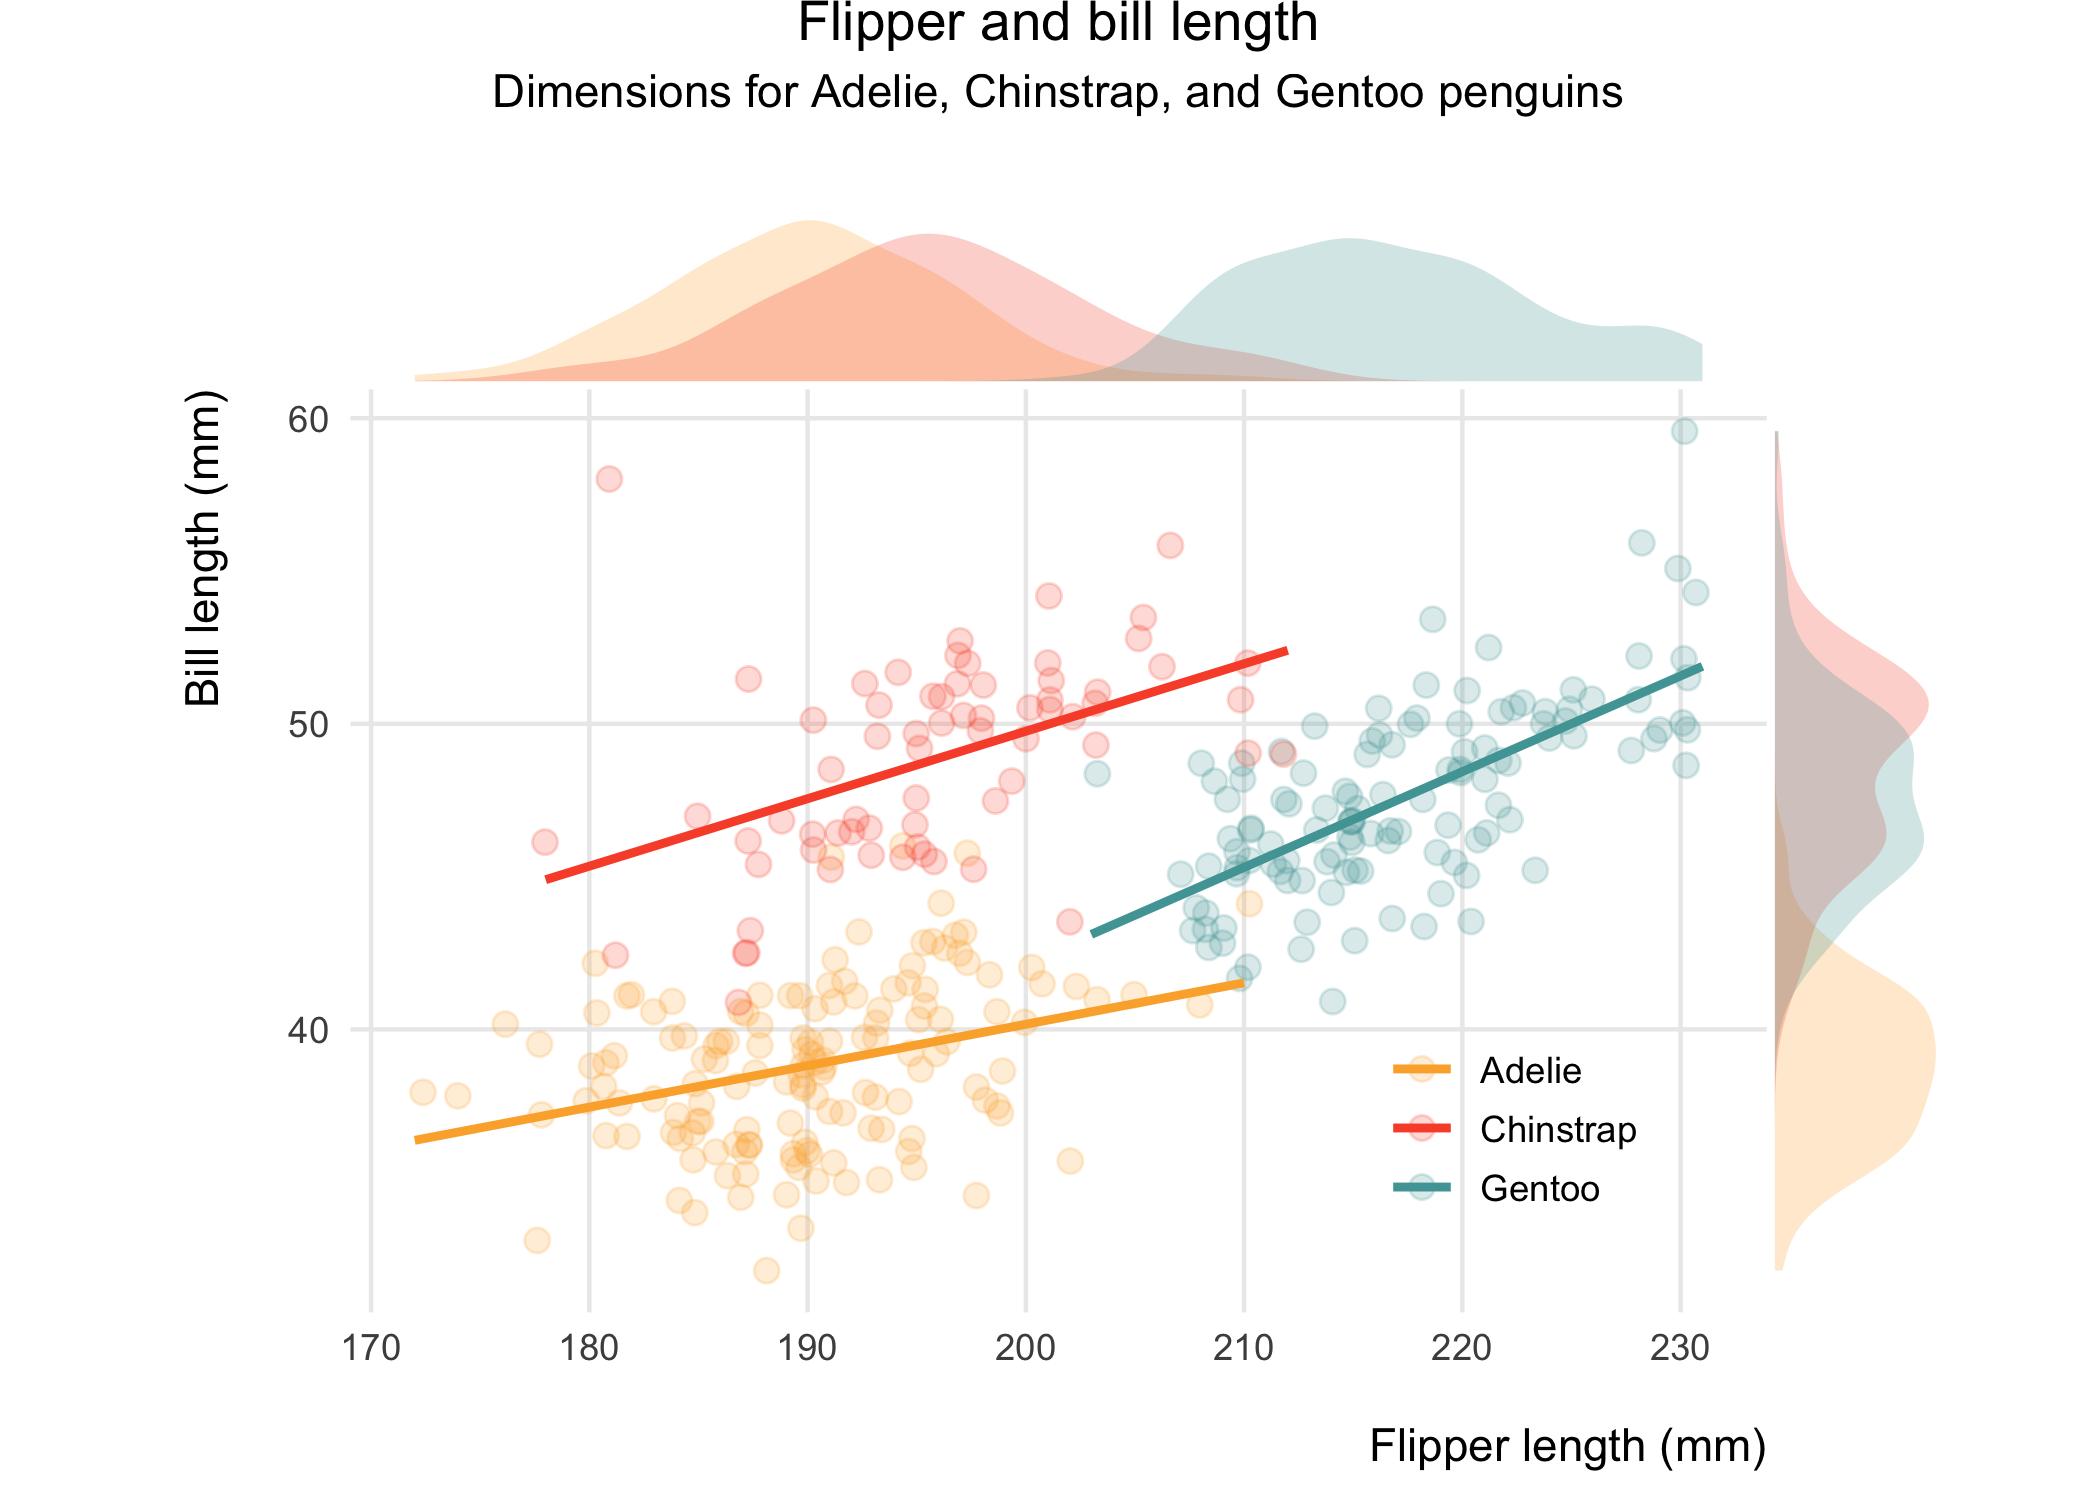
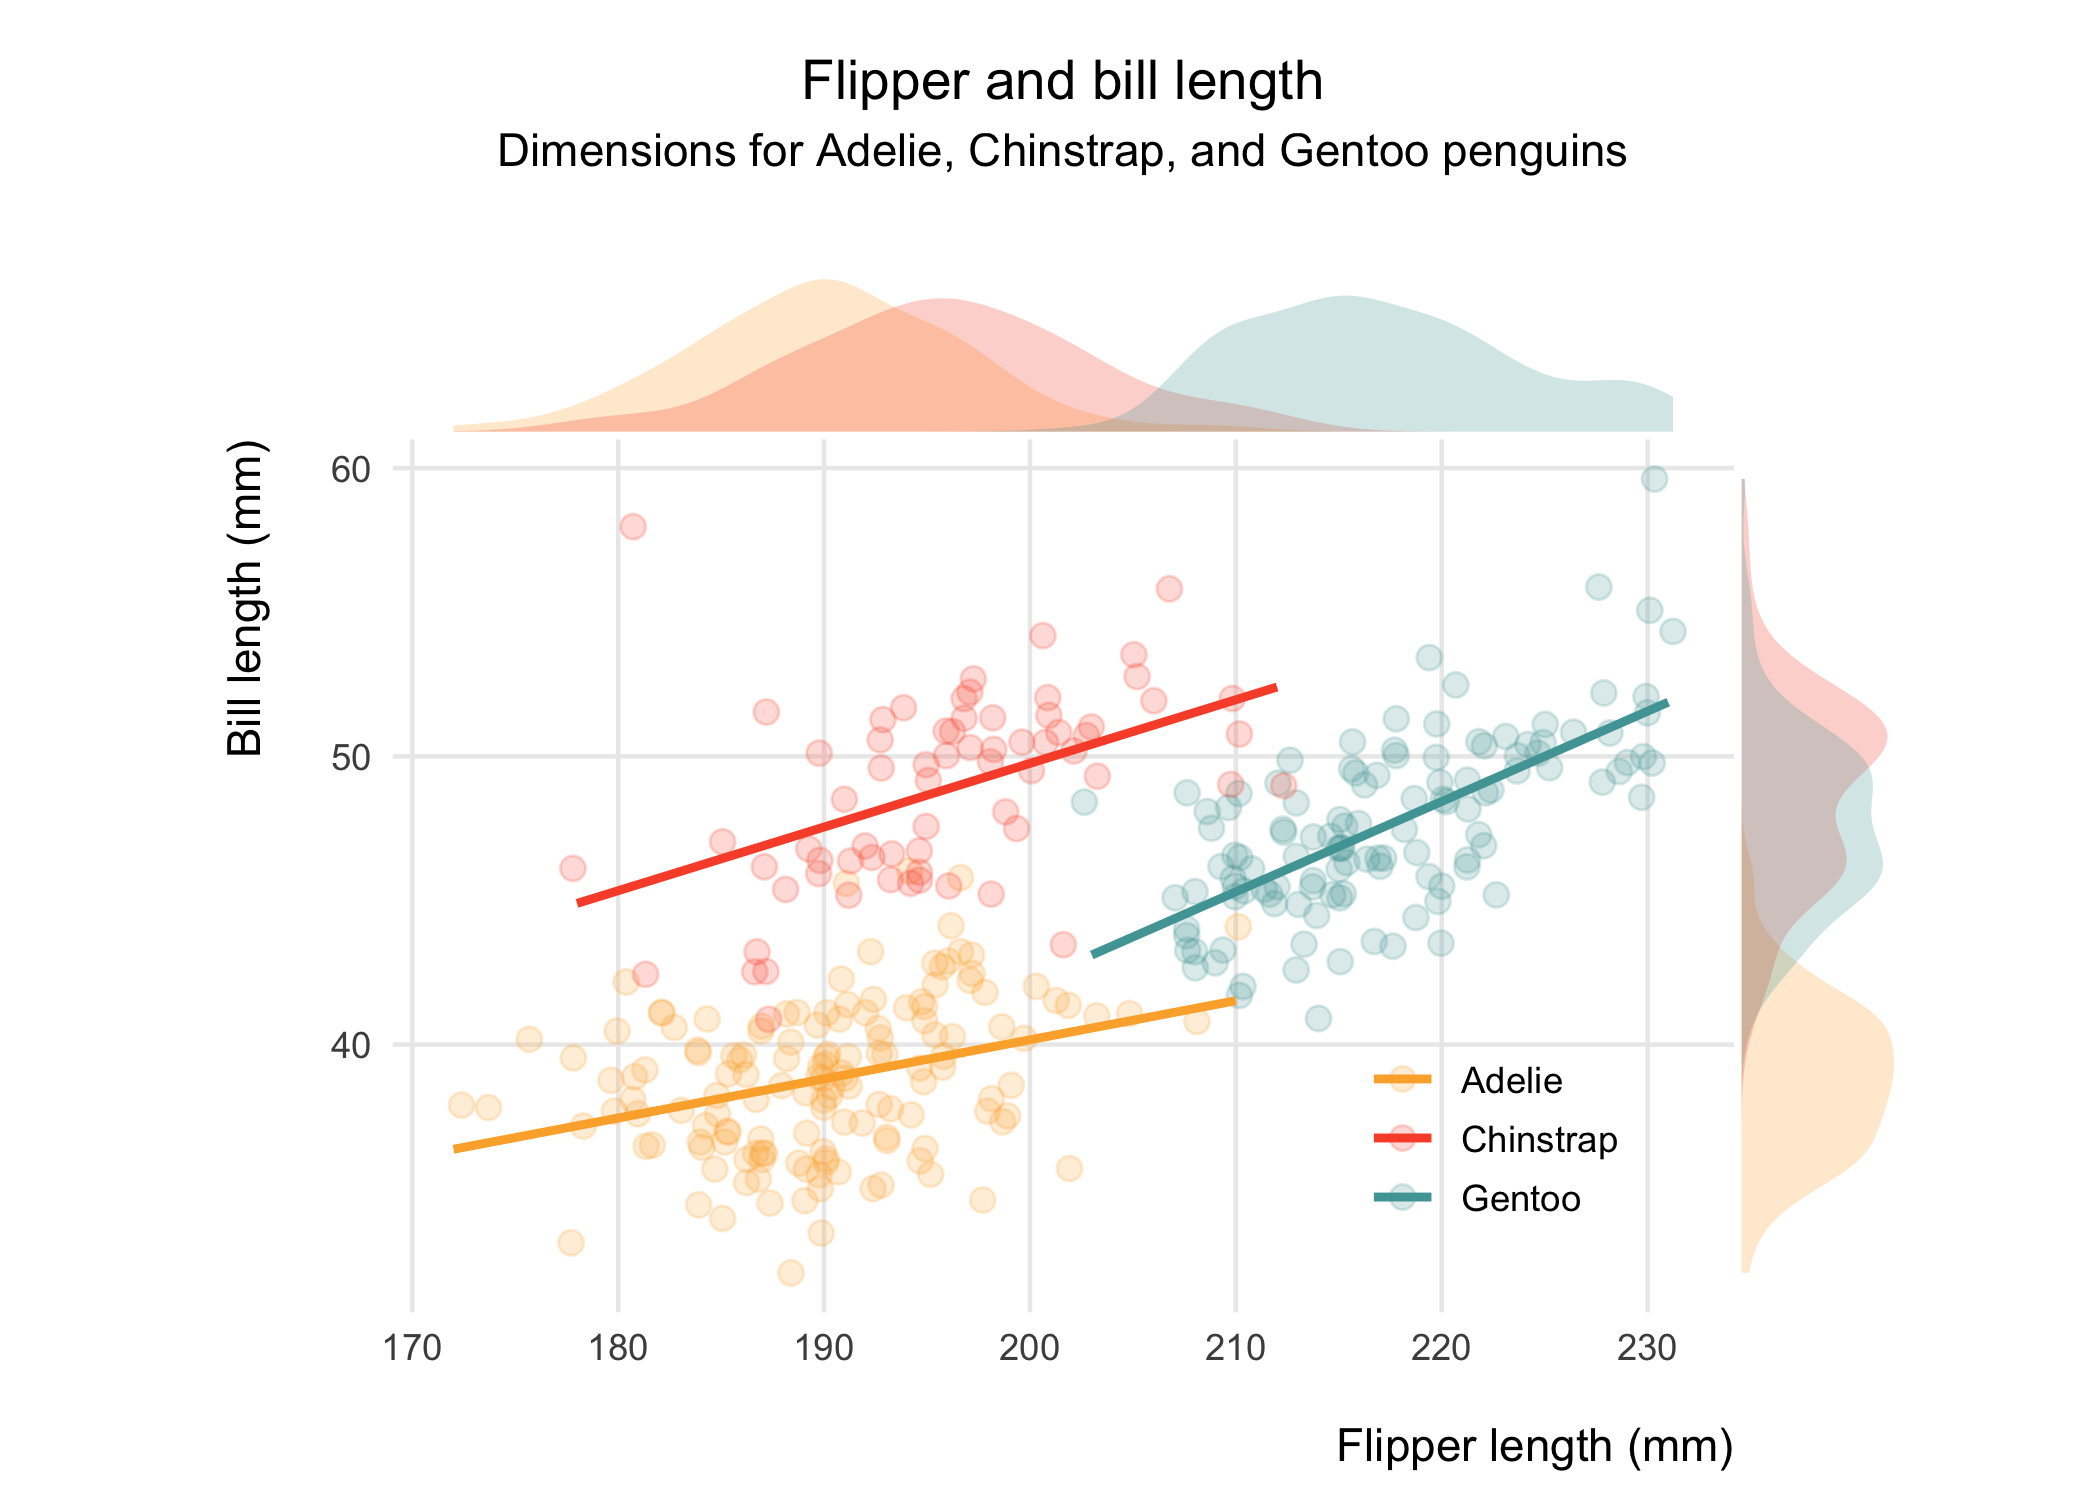
add more space for title

diff --git a/palmer-penguins/palmer-penguins.md b/palmer-penguins/palmer-penguins.md
@@ -107,7 +107,7 @@ plot_one <- penguins %>%
   coord_fixed(ratio = 1.4) +
   labs(x = "\nFlipper length (mm)",
        y = "Bill length (mm)\n",
-       title = "Flipper and bill length",
+       title = "\nFlipper and bill length",
        subtitle = "Dimensions for Adelie, Chinstrap, and Gentoo penguins\n")
 
 # Add density plots corresponding to each axis
